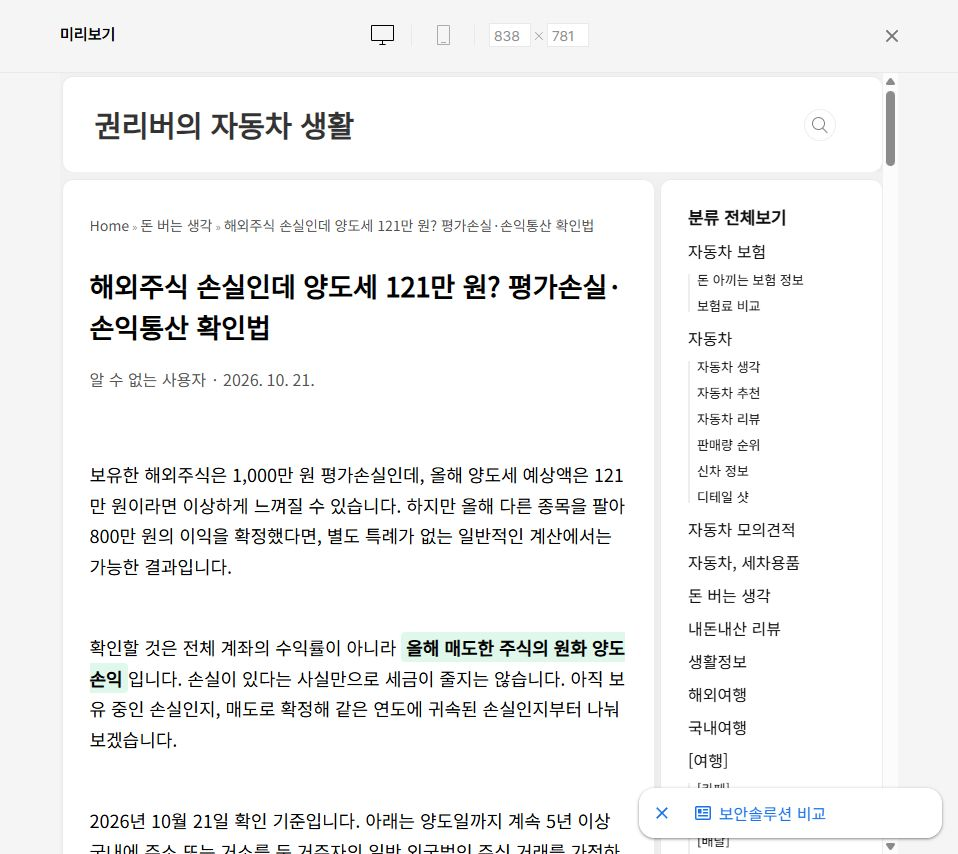
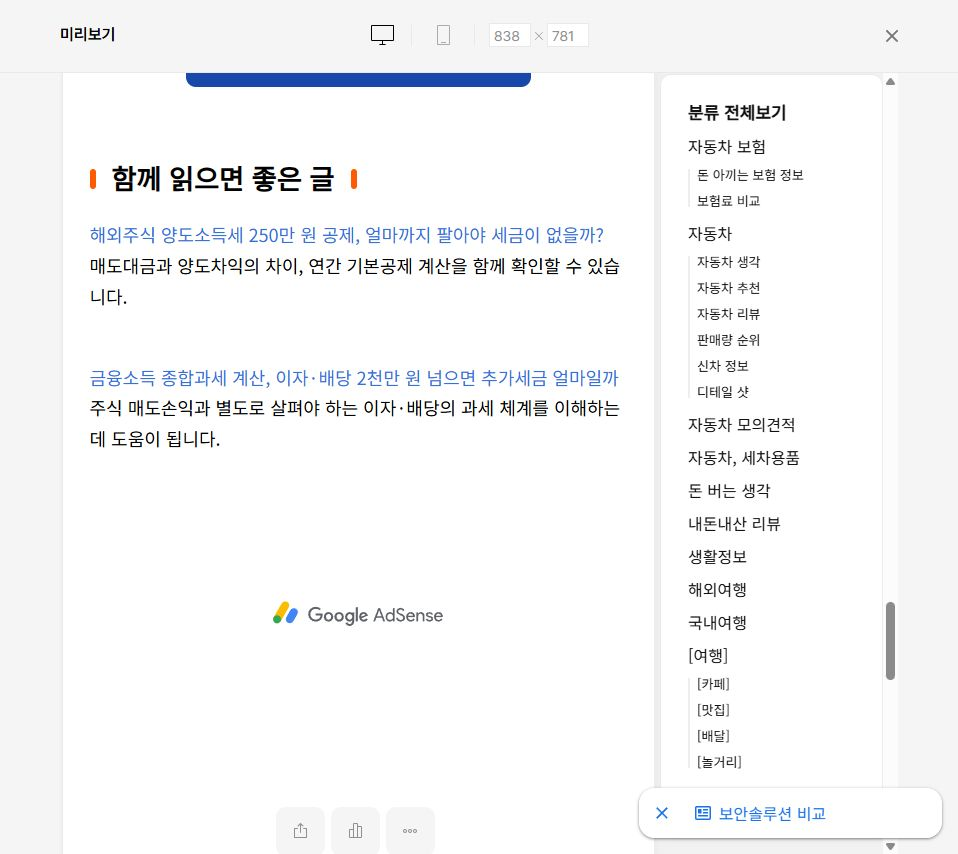
Record verified spacing and related-post updates

diff --git a/AGENTS.md b/AGENTS.md
@@ -134,7 +134,7 @@ web_tex_calculator/
    - 도입부는 문제 제기와 숫자 후킹을 강화한다.
    - 말미의 별도 `공식 자료` 목록 대신 `함께 읽으면 좋은 글`을 넣는다. 사용자 티스토리에 실제 발행된 관련 글 1~3개를 공개 제목·URL 확인 후 연결하고, 각 글을 읽으면 도움이 되는 이유를 짧게 적는다.
    - 미발행·비공개 글, 추측한 URL, 무관한 글은 넣지 않는다. 적절한 발행 글이 없으면 섹션을 생략하고 사용자에게 알린다.
-   - 중요한 세법 기준·기한 옆에는 필요한 짧은 공식 출처 링크를 남기고, 전체 공식 근거와 검증 기록은 로컬 원고·작업 자료에 보관한다. 이 말미 구성 규칙은 티스토리에만 적용한다.
+   - 중요한 세법 기준·기한 옆에는 필요한 짧은 공식 출처 링크를 남기고, 전체 공식 근거와 검증 기록은 로컬 원고·작업 자료에 보관한다. 별도의 공식 자료 목록을 말미에 두지 않는 규칙은 티스토리에 적용하며, 같은 플랫폼의 관련 글을 마지막에 넣는 원칙은 세 플랫폼 모두에 적용한다.
    - 티스토리용 썸네일은 `1080x1080` WebP 정사각형으로 별도 생성한다.
    - 티스토리용 썸네일은 강한 후킹, 큰 숫자, 클릭 유도형 문구를 사용한다.
    - 썸네일 안에 `티스토리용`, `네이버용` 같은 작업용 라벨을 절대 넣지 않는다.
